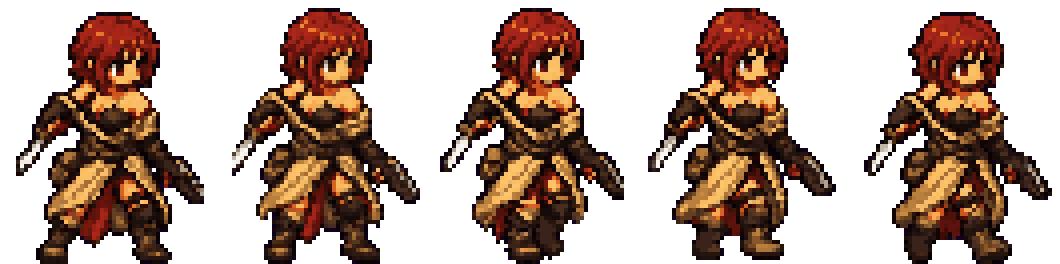
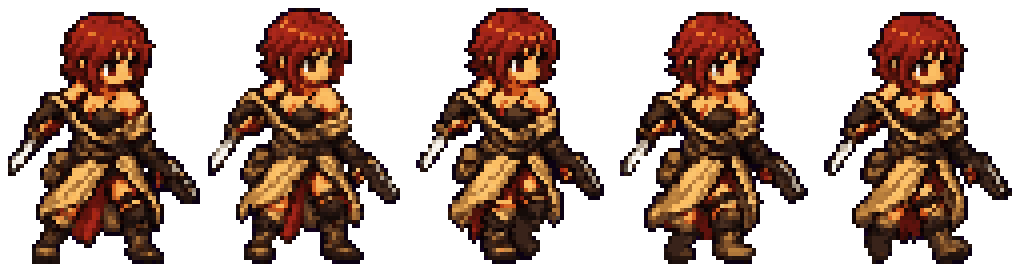
ストライカーの歩きを修正版に差し替え+頭の横揺れ除去 (v0.25.1650)
社長「こちらに差し替え」→「もう一度修正」= 最新シート aimeglio_13 を
ストライカー(=player-scavenger絵)の歩きに採用。64色=ドット確認。

- ÷4 NEAREST→5コマ→頭中心x合わせ(median基準=髪の流れに強い)+頭top平滑・幅78。
  頭横揺れ0.0px(全コマ39.0)・縦1px。立ち=歩き2コマ目も同基準。
- 差し替え: player-scavenger-{walk-0..4,idle}.png。元シート退避 art_src/originals/striker/walk-sheet-dot.png。
- ASSET_VERSION 47→48。走り/近接は不変。
- 知見: 髪が流れるキャラの頭中心xはmedian基準が安定(mean/extentは尾に引かれる)。

検証: typecheck clean。

Claude-Session: https://claude.ai/code/session_01QmCwCeqFXebghKeaoHd8Kz

diff --git a/src/config/assetVersion.ts b/src/config/assetVersion.ts
@@ -87,4 +87,6 @@
 // v47: スカベンジャーの歩き/走り/立ちを「頭中心x合わせ」で再焼き(社長指示「頭の前後左右揺れ1px以内」)。従来のbbox中心合わせ
 //      は腕/銃/マント伸縮で頭が横にブレていた(歩き3.9px/走り6.2px)→頭の横中心をCW/2に固定=横揺れ0.5/0.9px・立ち↔歩きの横飛びなし。
 //      縦(頭top平滑=1px以内)は据え置き。他クラスは未対応(必要なら同処理)。
-export const ASSET_VERSION = '47';
+// v48: ストライカー(=player-scavenger絵)の歩きを社長修正版シート(aimeglio_13)で差し替え+頭中心x合わせ(median基準=
+//      髪の流れに強い)+頭top平滑。頭横揺れ0px/縦1px。立ち=歩き2コマ目も同基準。走り/近接は不変。
+export const ASSET_VERSION = '48';

diff --git a/src/data/changelog.ts b/src/data/changelog.ts
@@ -8,6 +8,12 @@ export interface ChangelogEntry {
 
 export const CHANGELOG: ChangelogEntry[] = [
   {
+    version: '0.25.1650',
+    items: [
+      'ストライカーの歩きを修正版の絵に差し替え、頭の横揺れを1px以内(実質0px)に。立ち絵も同じ基準に。',
+    ],
+  },
+  {
     version: '0.25.1649',
     items: [
       'スカベンジャーの歩き・走りの頭の横揺れを1px以内に抑えた(頭の中心を基準に再配置)。立ち絵も同じ基準に揃えて、歩き出しで頭が横に飛ばないように。',

diff --git a/DEVELOPMENT_LOG.md b/DEVELOPMENT_LOG.md
@@ -12,6 +12,13 @@ on the zombie game. Append a new entry after each meaningful change.
 - Local URL: `http://localhost:5173/zombie/` unless Vite chooses another port
 - Renderer under active development: PixiJS only
 
+## v0.25.1650 — ストライカーの歩きを修正版に差し替え+頭の横揺れ除去【2026-07-13 11:10 JST】
+- **社長**「こちらに差し替え」→「もう一度修正」= 最新シート `aimeglio_13`(e429dd13)をストライカー(=player-scavenger絵)の歩きに採用。64色=ドット確認。
+- **ベイク**: ÷4 NEAREST→5コマ→**頭中心x合わせ(median基準)**+頭top平滑・幅78・CH64。**medianは髪の流れ(尾)に強い**=extent中心だと1.5px残ったが median で **頭横揺れ0.0px**(全コマ39.0)・縦1px。立ち=歩き2コマ目も同基準。
+- **差し替え**: `player-scavenger-{walk-0..4,idle}.png`。元シート退避 `art_src/originals/striker/walk-sheet-dot.png`(上書き)。**ASSET_VERSION 47→48**。走り/近接は不変。
+- **知見**: 髪が長い/流れるキャラの頭中心xは **median基準**が安定(mean/extentは尾に引っ張られる)。今後の横揺れ対策はmedianを既定に。
+- 検証: **typecheck clean**。負荷0/10。
+
 ## v0.25.1649 — スカベンジャーの歩き/走りの頭の横揺れを1px以内に【2026-07-13 10:37 JST】
 - **社長指示**「スカベンジャーの歩きと走りの頭の前後左右揺れ 1px以内に抑えて」。
 - **診断**: 従来は各コマを**bbox中心**で横合わせ→腕/銃/マントの伸縮で頭が左右にブレていた(実測: 歩き横3.9px / 走り横6.2px)。
